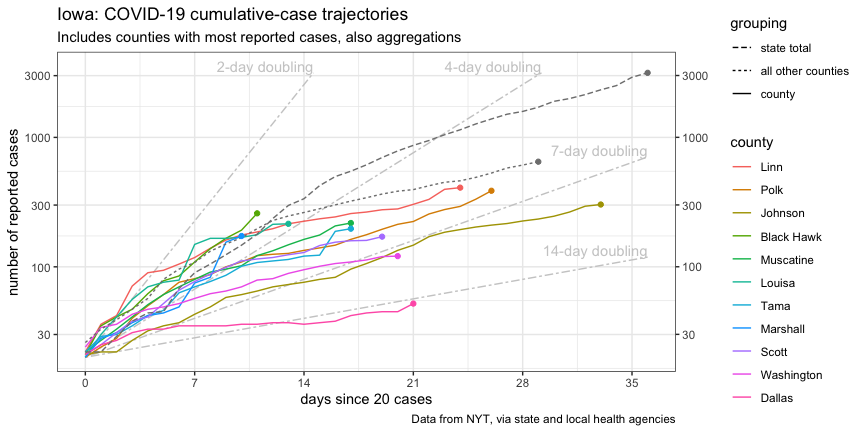
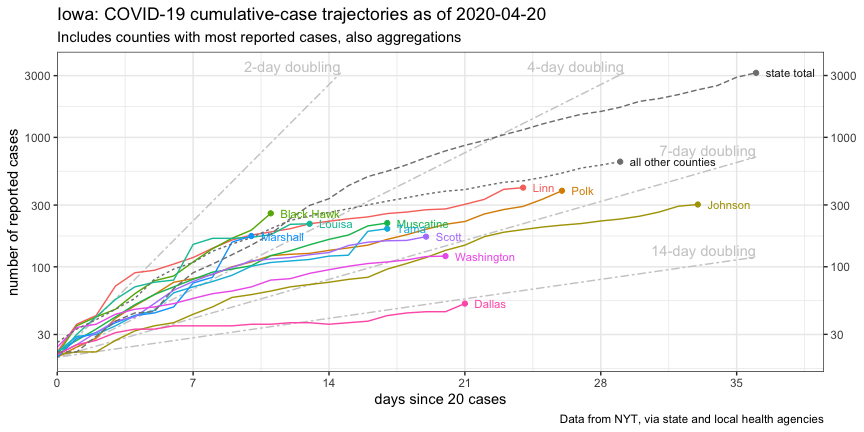
Add labels to plots directly

diff --git a/ijlyttle/03-Plots.md b/ijlyttle/03-Plots.md
@@ -9,14 +9,14 @@ library("glue")
 library("tidyverse")
 ```
 
-    ## ── Attaching packages ───────────────────────────────────────────────────────────────────────────────────── tidyverse 1.3.0 ──
+    ## ── Attaching packages ──────────────────────────────────────────────────────────────────────── tidyverse 1.3.0 ──
 
     ## ✓ ggplot2 3.3.0          ✓ purrr   0.3.3     
     ## ✓ tibble  2.1.3          ✓ dplyr   0.8.4     
     ## ✓ tidyr   1.0.0          ✓ stringr 1.4.0     
     ## ✓ readr   1.3.1.9000     ✓ forcats 0.4.0
 
-    ## ── Conflicts ──────────────────────────────────────────────────────────────────────────────────────── tidyverse_conflicts() ──
+    ## ── Conflicts ─────────────────────────────────────────────────────────────────────────── tidyverse_conflicts() ──
     ## x dplyr::collapse() masks glue::collapse()
     ## x dplyr::filter()   masks stats::filter()
     ## x dplyr::lag()      masks stats::lag()
@@ -415,7 +415,33 @@ plot_cases_ft <-
     aes(color = county),
     show.legend = FALSE
   ) +
-  scale_x_continuous(breaks = f_break) +
+  geom_text(
+    data = . %>% filter(date == max(date), aggregation == "none"),
+    aes(x = index_cases, label = county, color = county),
+    hjust = "left",
+    nudge_x = .5,
+    size = 3,
+    show.legend = FALSE
+  ) +
+  geom_text(
+    data = . %>% 
+      ungroup() %>%
+      filter(date == max(date), aggregation != "none") %>%
+      mutate(
+        label = fct_recode(
+          aggregation, 
+          `state total` = "total", 
+          `all other counties` = "remainder"
+        )
+      ),
+    aes(x = index_cases, label = label),
+    color = "grey10",
+    hjust = "left",
+    nudge_x = 0.5,
+    size = 3,
+    show.legend = FALSE
+  ) +
+  scale_x_continuous(breaks = f_break, expand = expand_scale(add = c(0, 3))) +
   scale_y_log10(
     sec.axis = dup_axis(name = NULL)
   ) + 
@@ -423,17 +449,20 @@ plot_cases_ft <-
     name = "grouping", 
     breaks = c("total", "remainder", "none"),
     labels = c("state total", "all other counties", "county")
-  ) +
+  ) +  
   scale_color_discrete(breaks = counties_large) +
+  guides(color = FALSE, linetype = FALSE) +
   theme_bw() +
   labs(
     x = glue("days since {params$threshold_index_cases} cases"),
     y = "number of reported cases",
-    title = "Iowa: COVID-19 cumulative-case trajectories",
+    title = glue("Iowa: COVID-19 cumulative-case trajectories as of {max(data_combined_index$date)}"),
     subtitle = "Includes counties with most reported cases, also aggregations",
     caption = params$nyt_citation
   )
 ```
+
+    ## Warning: `expand_scale()` is deprecated; use `expansion()` instead.
 
 ``` r
 plot_new_cases_week_avg_ft <- 
@@ -447,7 +476,34 @@ plot_new_cases_week_avg_ft <-
     aes(color = county),
     show.legend = FALSE
   ) +
-  scale_x_continuous(breaks = f_break) +
+  geom_text(
+    data = . %>% filter(date == max(date), aggregation == "none"),
+    aes(x = index_new_cases, label = county, color = county),
+    hjust = "left",
+    nudge_x = .5,
+    size = 3,
+    show.legend = FALSE
+  ) +
+  geom_text(
+    data = . %>% 
+      ungroup() %>%
+      filter(date == max(date), aggregation != "none") %>%
+      mutate(
+        label = fct_recode(
+          aggregation, 
+          NULL = "county",
+          `state total` = "total", 
+          `all other counties` = "remainder"
+        )
+      ),
+    aes(x = index_new_cases, label = label),
+    color = "grey10",
+    hjust = "left",
+    nudge_x = 0.5,
+    size = 3,
+    show.legend = FALSE
+  ) +
+  scale_x_continuous(breaks = f_break, expand = expand_scale(add = c(0, 3.5))) +
   scale_y_log10(
     sec.axis = dup_axis(name = NULL)
   ) + 
@@ -457,15 +513,18 @@ plot_new_cases_week_avg_ft <-
     labels = c("state total", "all other counties", "county")
   ) +
   scale_color_discrete(breaks = counties_large) +
+  guides(color = FALSE, linetype = FALSE) +
   theme_bw() +
   labs(
     x = glue("days since {params$threshold_index_new_cases} new cases"),
     y = "number of new reported cases",
-    title = "Iowa: COVID-19 new-case trajectories (7-day rolling average)",
+    title = glue("Iowa: COVID-19 cumulative-case trajectories as of {max(data_combined_index$date)}"),
     subtitle = "Includes counties with most reported cases, also aggregations",
     caption = params$nyt_citation
   )
 ```
+
+    ## Warning: `expand_scale()` is deprecated; use `expansion()` instead.
 
 ### County groups
 

diff --git a/README.md b/README.md
@@ -50,8 +50,8 @@ down to a doubling-rate between a week to two-weeks. This was the case
 until April 19, where I am seeing an across-the-board increase. Almost
 400 new cases reported on Apr. 19, doubling the previous record.
 According to the governor, roughly two-thirds of these 400 cases are
-associated with targeted testing at meat-packing plants (Louisa and
-Black Hawk).
+associated with targeted testing at meat-packing plants (Louisa, Tama,
+and Black Hawk).
 
 Again, following the style of FT, we can look at the seven-day rolling
 average of new
@@ -59,7 +59,7 @@ cases:
 
 <img src="ijlyttle/03-Plots_files/figure-gfm/new-cases-county-ft-1.png" width="864" />
 
-As of 2020-04-19, I am **not** seeing a peak in new-cases being
+As of 2020-04-20, I am **not** seeing a peak in new-cases being
 approached.
 
 Focusing on Johnson County, I see four waves of increases:
